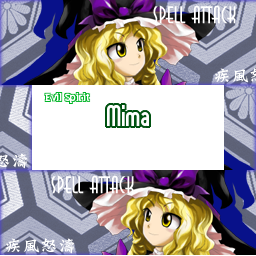
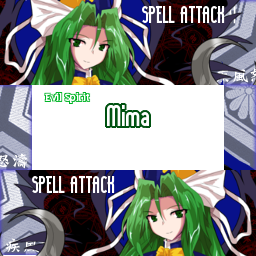
Image change

diff --git a/mima/files.js b/mima/files.js
@@ -4,7 +4,7 @@
 	"th09/data/pl/pl01/cdbg01b.png": 3677464636,
 	"th09/data/pl/pl01/pl01.png": 992233575,
 	"th09/data/pl/pl01/pl01_bs.png": 3987725845,
-	"th09/data/pl/pl01/pl01_ct00.png": 713131680,
+	"th09/data/pl/pl01/pl01_ct00.png": 1955925634,
 	"th09/data/pl/pl01/pl01_ex.png": 966074002,
 	"th09/data/pl/pl01/pl01_fc_an.png": 1352189169,
 	"th09/data/pl/pl01/pl01_fc_an_b.png": 3635782433,
@@ -28,7 +28,7 @@
 	"th09/data/pl/pl01b/cdbg01b.png": 3677464636,
 	"th09/data/pl/pl01b/pl01b.png": 498886564,
 	"th09/data/pl/pl01b/pl01b_bs.png": 3131667144,
-	"th09/data/pl/pl01b/pl01b_ct00.png": 310511534,
+	"th09/data/pl/pl01b/pl01b_ct00.png": 3594801982,
 	"th09/data/pl/pl01b/pl01b_ex.png": 966074002,
 	"th09/data/pl/pl01b/pl01b_fc_an.png": 2641505326,
 	"th09/data/pl/pl01b/pl01b_fc_an_b.png": 3663728008,
